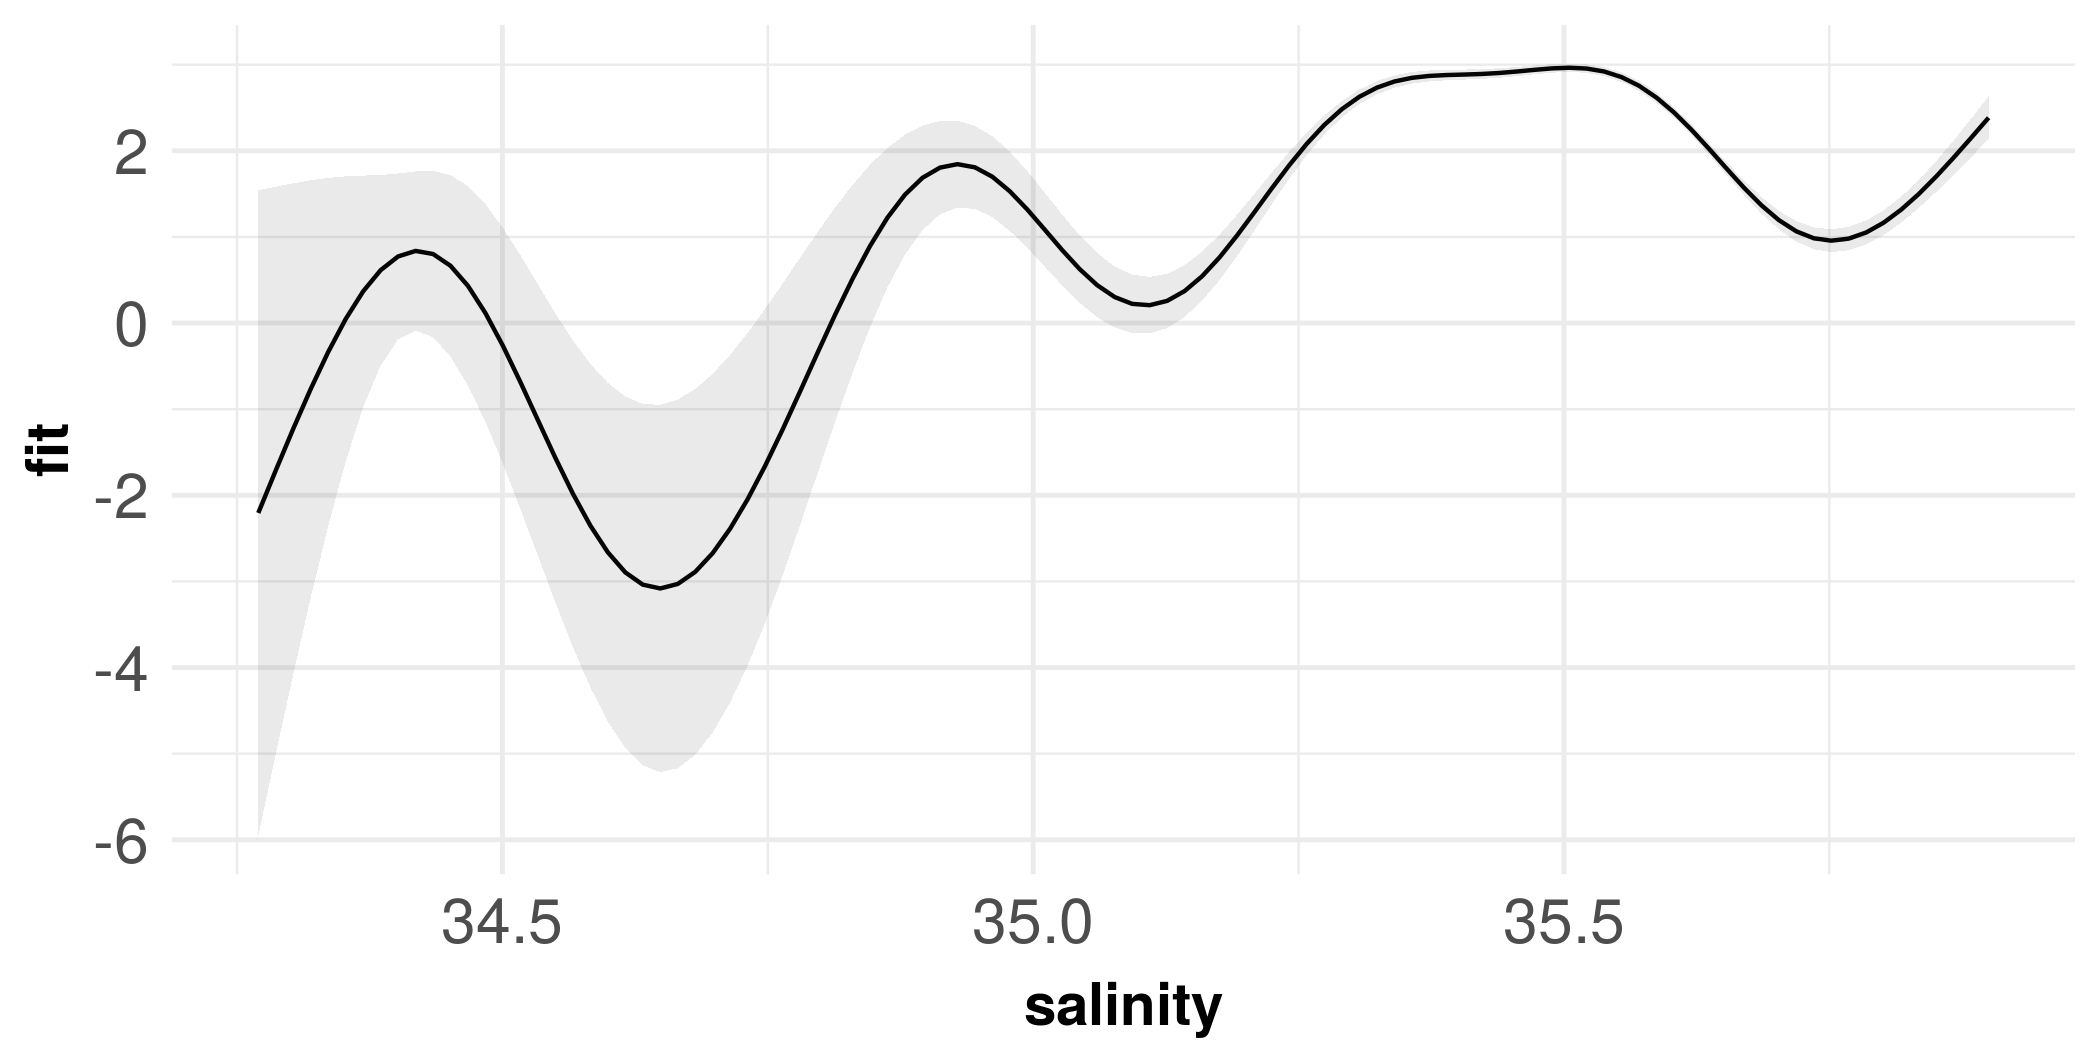
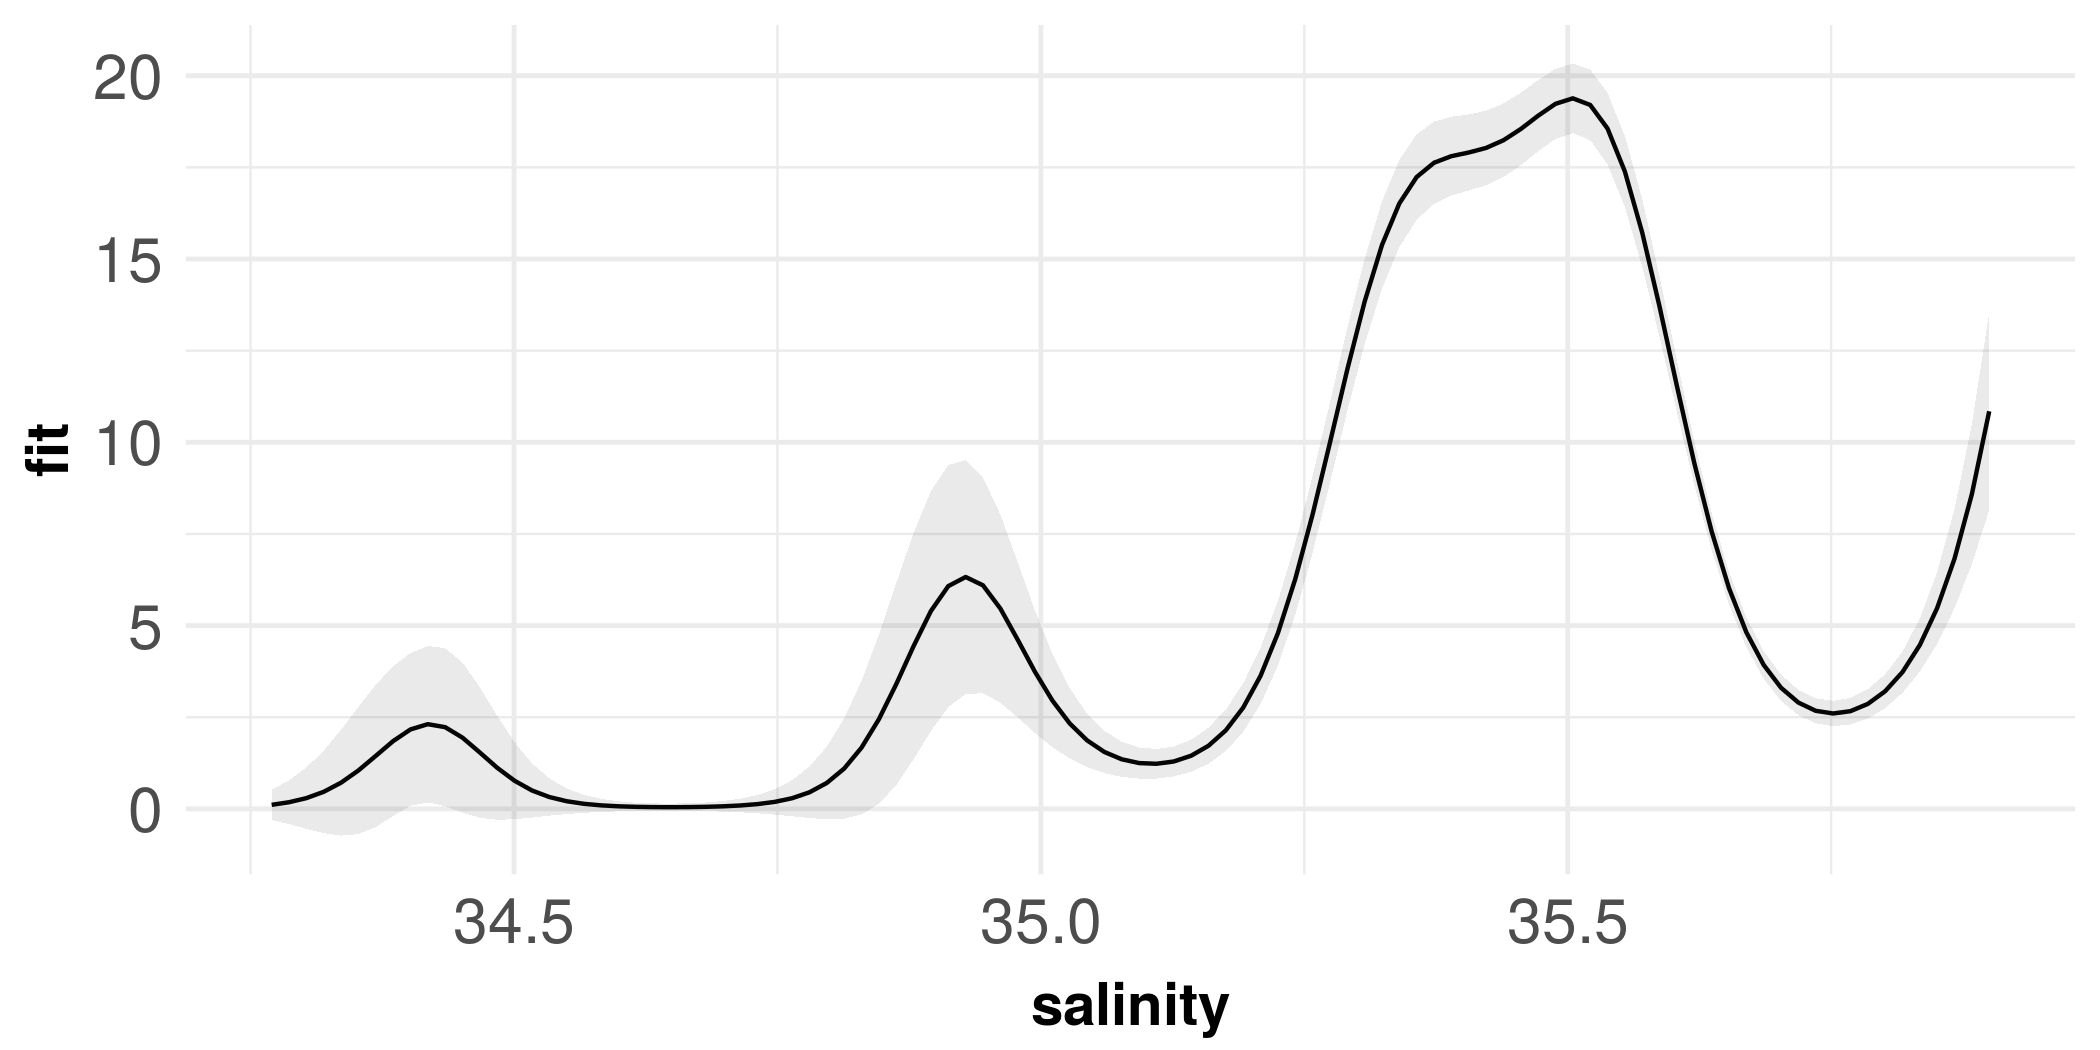
bug

diff --git a/GAM/gam_intro.html b/GAM/gam_intro.html
@@ -16,7 +16,7 @@ class: center, middle, inverse, title-slide
 ## Generalized Additive Models (GAM)
 ### Andreas Scharmüller
 ### AG Landscape Ecology
-### 2020/11/09 (updated: 2020-12-16)
+### 2020/11/09 (updated: 2020-12-17)
 
 ---
 
@@ -669,6 +669,7 @@ setDT(new) # convert to data.table
 # predict
 prd = predict(mod,
               newdata = new,
+              type = 'response',
               exclude = 's(b.depth)', # exclude of a variable
               se.fit = TRUE) # include standard errors
 # update newdata
